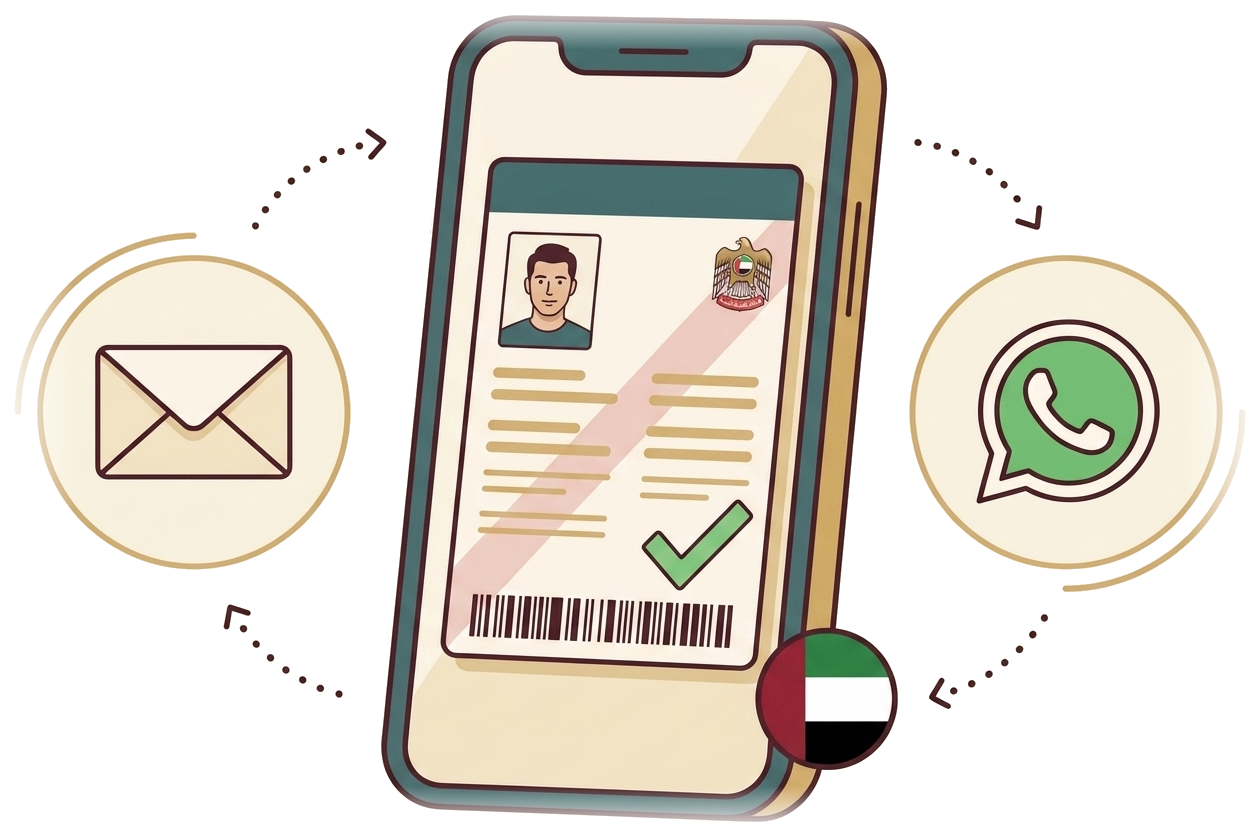
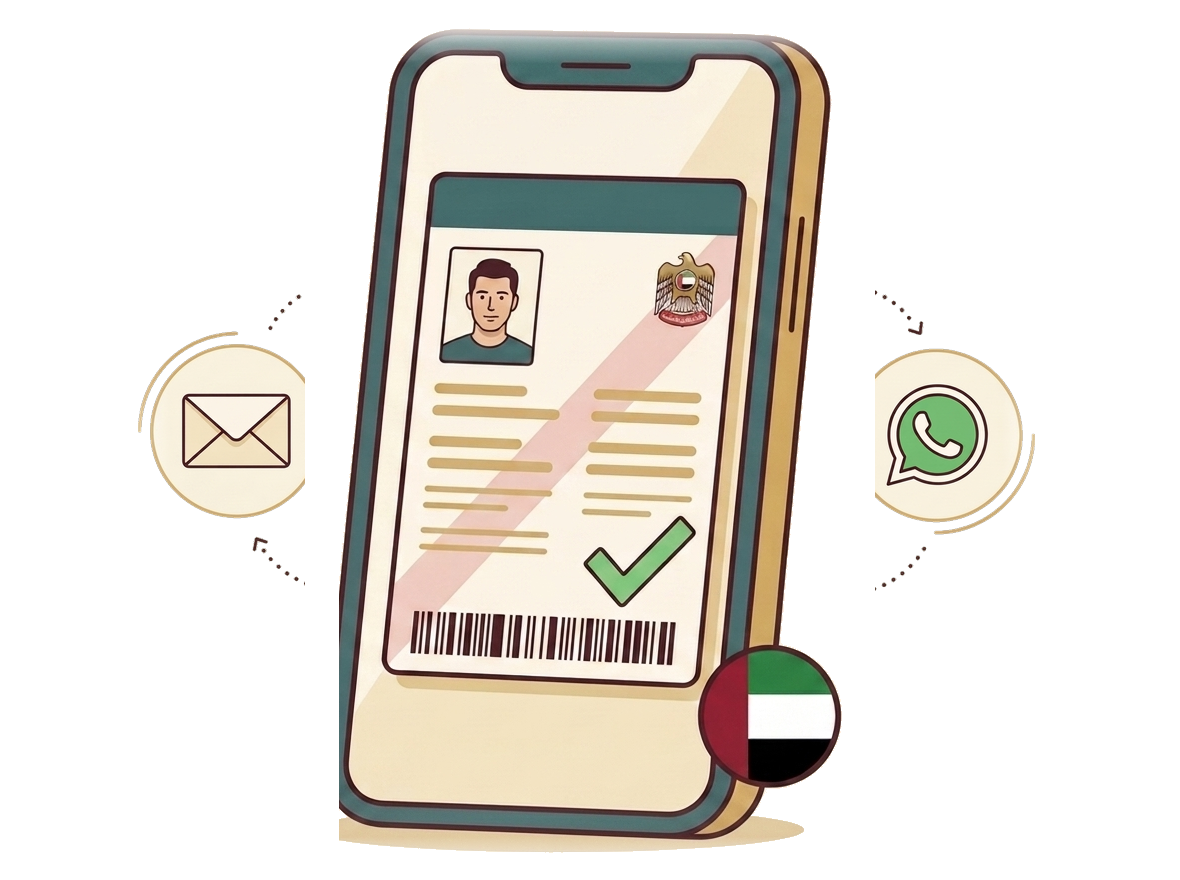
## Tamam
E-posta ve WhatsApp ikonlarını %45 küçülttüm — artık telefonun yaklaşık üçte biri kadar, aksesuar gibi duruyor; telefon ve içindeki vize örneği öne çıkıyor. BAE bayrağı da tam görünür durumda.

Bir sonraki adım için hazırım: isterseniz **güvenlik düzeltmelerine** geçelim (hesap girişi + belge indirme koruması), ya da başka bir sahneye dokunayım.

diff --git a/memory/PRD.md b/memory/PRD.md
@@ -924,3 +924,7 @@ gerekmedi**; testing_agent ile regresyon doğrulaması yapıldı (backend %100, 
 - **track.png v3**: e-posta ve WhatsApp madalyonları küçültüldü, telefon büyütüldü ve
   ekranında **vize örneği** (portre foto, BAE amblemi, metin satırları, barkod, yeşil onay
   tiki, specimen şeridi) görünüyor.
+- track.png son hâli: `track.jpg`'den kod ile yeniden kurgulandı (arka plan silindi,
+  telefon 503x825 olduğu gibi, e-posta/WhatsApp madalyonları %55 küçültülerek telefonun
+  iki yanına yerleştirildi, kenar feather). Görsel işlem adımları PIL ile yapıldı;
+  gerekirse `explainer/track.jpg` kaynağından tekrar üretilebilir.
